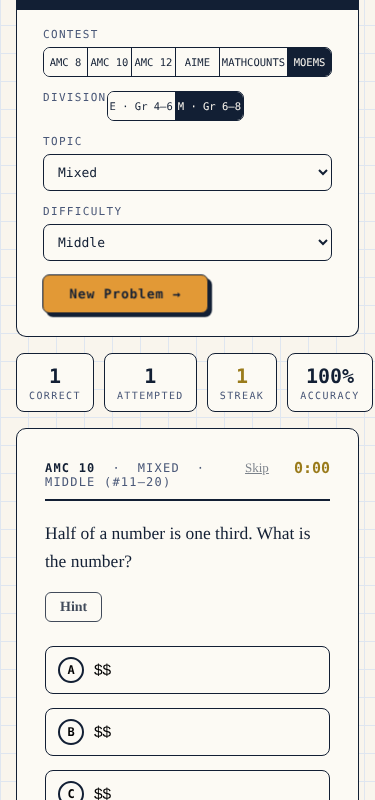
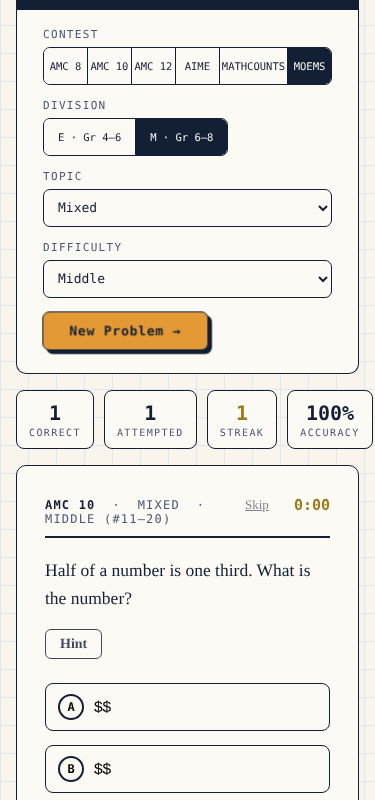
UI polish: remove time from verdict, fix Round/Division label layout, one-line AMC labels, align control heights
Claude-Session: https://claude.ai/code/session_016MyYcbuSXHyb4ESLD2epVe

diff --git a/index.html b/index.html
@@ -312,6 +312,16 @@
     cursor: pointer;
   }
   .seg button:last-child { border-right: none; }
+  .seg button { white-space: nowrap; }
+  .seg { height: 38px; box-sizing: border-box; }
+  select { height: 38px; box-sizing: border-box; }
+  /* Contest picker gets its own row; Round / Division size to their content so
+     their labels are never squeezed or clipped. */
+  #levelSeg { min-width: 0; }
+  .field:has(> #levelSeg) { flex: 1 1 100%; }
+  #roundField, #divField { flex: 0 0 auto; }
+  #roundSeg button, #divSeg button { padding: 9px 14px; }
+  label { white-space: nowrap; }
   .seg button.on { background: var(--ink); color: var(--paper); }
   select {
     width: 100%;
@@ -998,8 +1008,8 @@
       b.classList.add('on');
       level = b.dataset.v;
       updateDiffLabels(level);
-      $('roundField').style.display = (level === 'MATHCOUNTS') ? 'flex' : 'none';
-      $('divField').style.display = (level === 'MOEMS') ? 'flex' : 'none';
+      $('roundField').style.display = (level === 'MATHCOUNTS') ? 'block' : 'none';
+      $('divField').style.display = (level === 'MOEMS') ? 'block' : 'none';
       syncRound();
       updateMcNote();
     });
@@ -1348,8 +1358,7 @@
     } catch (e) {}
     renderGuestNote();
     const v = $('verdict');
-    const time = $('timer').textContent;
-    v.textContent = (correct ? '✓ Correct — ' : '✗ Not quite — ') + answerLabel + '  ·  ' + time;
+    v.textContent = (correct ? '✓ Correct — ' : '✗ Not quite — ') + answerLabel;
     v.className = 'verdict show ' + (correct ? 'ok' : 'no');
     renderSolution(current.solution || '');
     updateLikeBtn();
